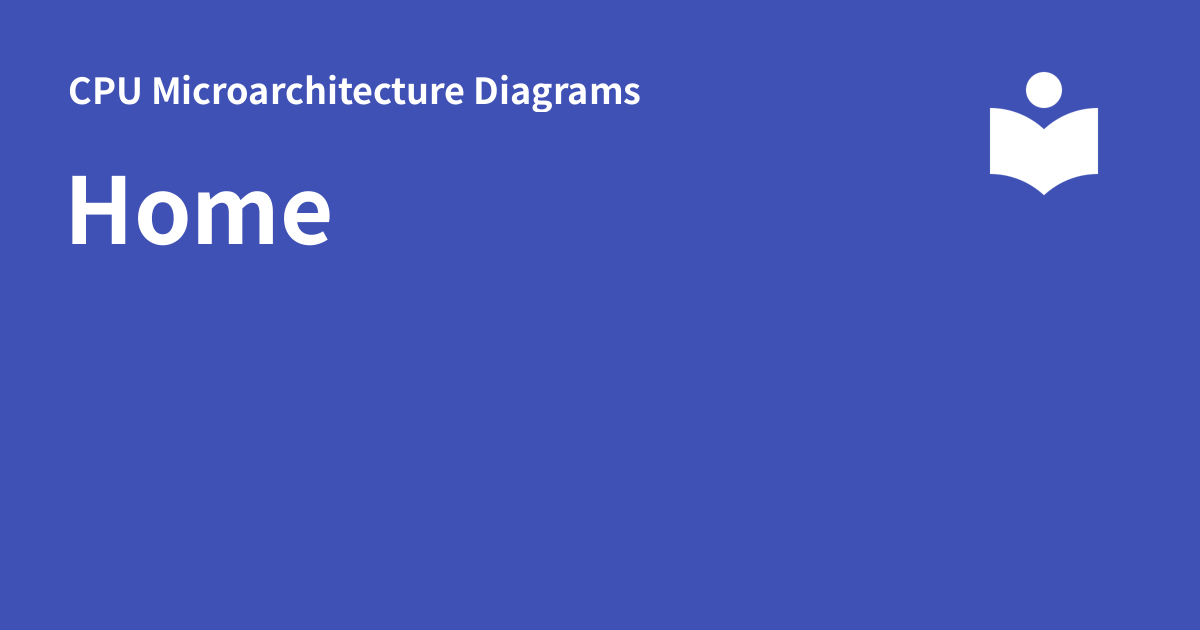
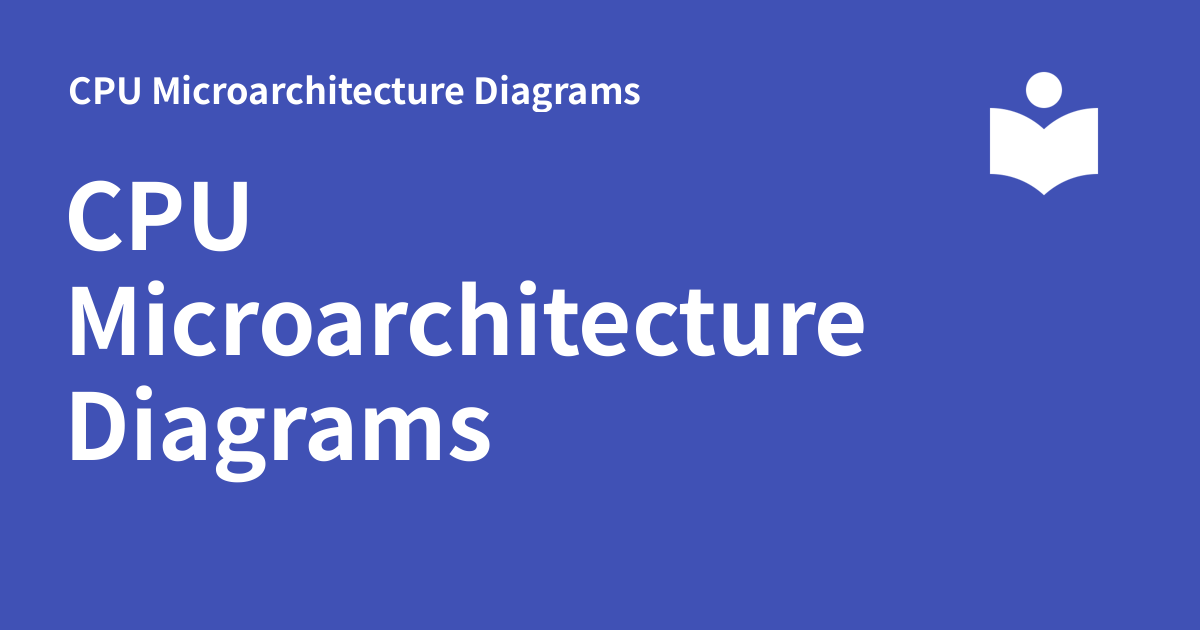
Deployed 847831a with MkDocs version: 1.6.0

Changed region(s): [[0.0617, 0.4524, 0.74, 0.573], [0.0617, 0.6032, 0.4317, 0.7841], [0.0308, 0.2714, 0.2775, 0.4222]]

diff --git a/index.html b/index.html
@@ -64,7 +64,7 @@
       
         <meta  property="og:type"  content="website" >
       
-        <meta  property="og:title"  content="Home" >
+        <meta  property="og:title"  content="CPU Microarchitecture Diagrams" >
       
         <meta  property="og:description"  content="None" >
       
@@ -80,7 +80,7 @@
       
         <meta  name="twitter:card"  content="summary_large_image" >
       
-        <meta  name="twitter:title"  content="Home" >
+        <meta  name="twitter:title"  content="CPU Microarchitecture Diagrams" >
       
         <meta  name="twitter:description"  content="None" >
       
@@ -145,7 +145,7 @@
         <div class="md-header__topic" data-md-component="header-topic">
           <span class="md-ellipsis">
             
-              Home
+              CPU Microarchitecture Diagrams
             
           </span>
         </div>
@@ -275,7 +275,7 @@
         
   
   <span class="md-ellipsis">
-    Home
+    CPU Microarchitecture Diagrams
   </span>
   
 

diff --git a/404.html b/404.html
@@ -222,7 +222,7 @@
         
   
   <span class="md-ellipsis">
-    Home
+    CPU Microarchitecture Diagrams
   </span>
   
 

diff --git a/avalanche.html b/avalanche.html
@@ -268,7 +268,7 @@
         
   
   <span class="md-ellipsis">
-    Home
+    CPU Microarchitecture Diagrams
   </span>
   
 

diff --git a/comparison.html b/comparison.html
@@ -268,7 +268,7 @@
         
   
   <span class="md-ellipsis">
-    Home
+    CPU Microarchitecture Diagrams
   </span>
   
 

diff --git a/firestorm.html b/firestorm.html
@@ -268,7 +268,7 @@
         
   
   <span class="md-ellipsis">
-    Home
+    CPU Microarchitecture Diagrams
   </span>
   
 

diff --git a/golden_cove.html b/golden_cove.html
@@ -268,7 +268,7 @@
         
   
   <span class="md-ellipsis">
-    Home
+    CPU Microarchitecture Diagrams
   </span>
   
 

diff --git a/gracemont.html b/gracemont.html
@@ -266,7 +266,7 @@
         
   
   <span class="md-ellipsis">
-    Home
+    CPU Microarchitecture Diagrams
   </span>
   
 

diff --git a/m3_pcore.html b/m3_pcore.html
@@ -268,7 +268,7 @@
         
   
   <span class="md-ellipsis">
-    Home
+    CPU Microarchitecture Diagrams
   </span>
   
 

diff --git a/m4_pcore.html b/m4_pcore.html
@@ -268,7 +268,7 @@
         
   
   <span class="md-ellipsis">
-    Home
+    CPU Microarchitecture Diagrams
   </span>
   
 

diff --git a/oryon.html b/oryon.html
@@ -268,7 +268,7 @@
         
   
   <span class="md-ellipsis">
-    Home
+    CPU Microarchitecture Diagrams
   </span>
   
 

diff --git a/zen3.html b/zen3.html
@@ -268,7 +268,7 @@
         
   
   <span class="md-ellipsis">
-    Home
+    CPU Microarchitecture Diagrams
   </span>
   
 

diff --git a/zen4.html b/zen4.html
@@ -268,7 +268,7 @@
         
   
   <span class="md-ellipsis">
-    Home
+    CPU Microarchitecture Diagrams
   </span>
   
 
